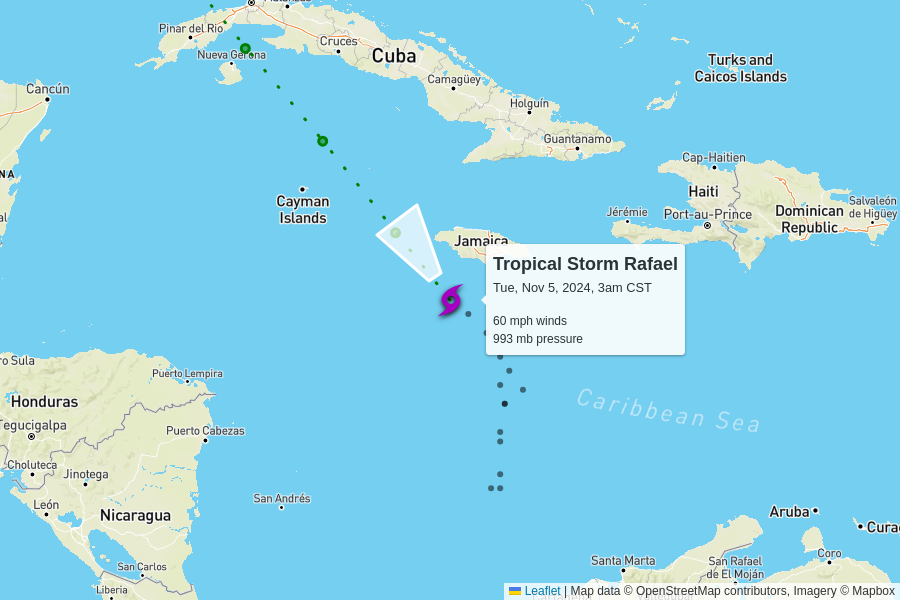
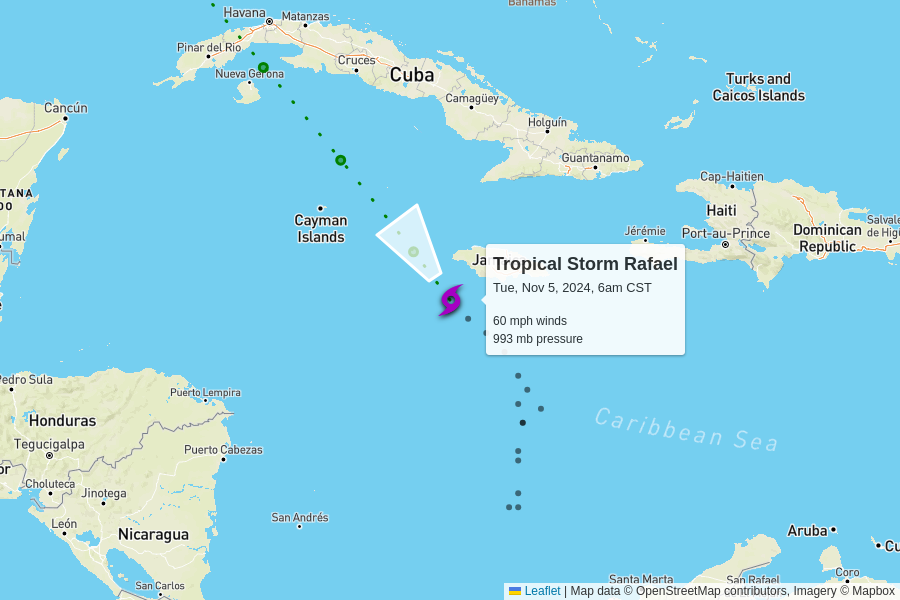
automatic update

diff --git a/docs/index.html b/docs/index.html
@@ -102,7 +102,7 @@
         <td colspan="6" class="storm category-0" >
           <h2>
             Tropical Storm Rafael
-            <p class="updated">last updated <span data-time>2024-11-05T09:00:00.000Z</span></p>
+            <p class="updated">last updated <span data-time>2024-11-05T12:00:00.000Z</span></p>
           </h2>
         </td>
       </tr>
@@ -117,8 +117,8 @@
       </tr>
       <tr>
         <td class="spacer"></td>
-        <td>60 mph<br>+15 mph since last update</td>
-        <td>993 mb<br>-3 mb since last update</td>
+        <td>60 mph<br>0 mph since last update</td>
+        <td>993 mb<br>0 mb since last update</td>
         <td>
           13 mph to the northwest
           <br/>
